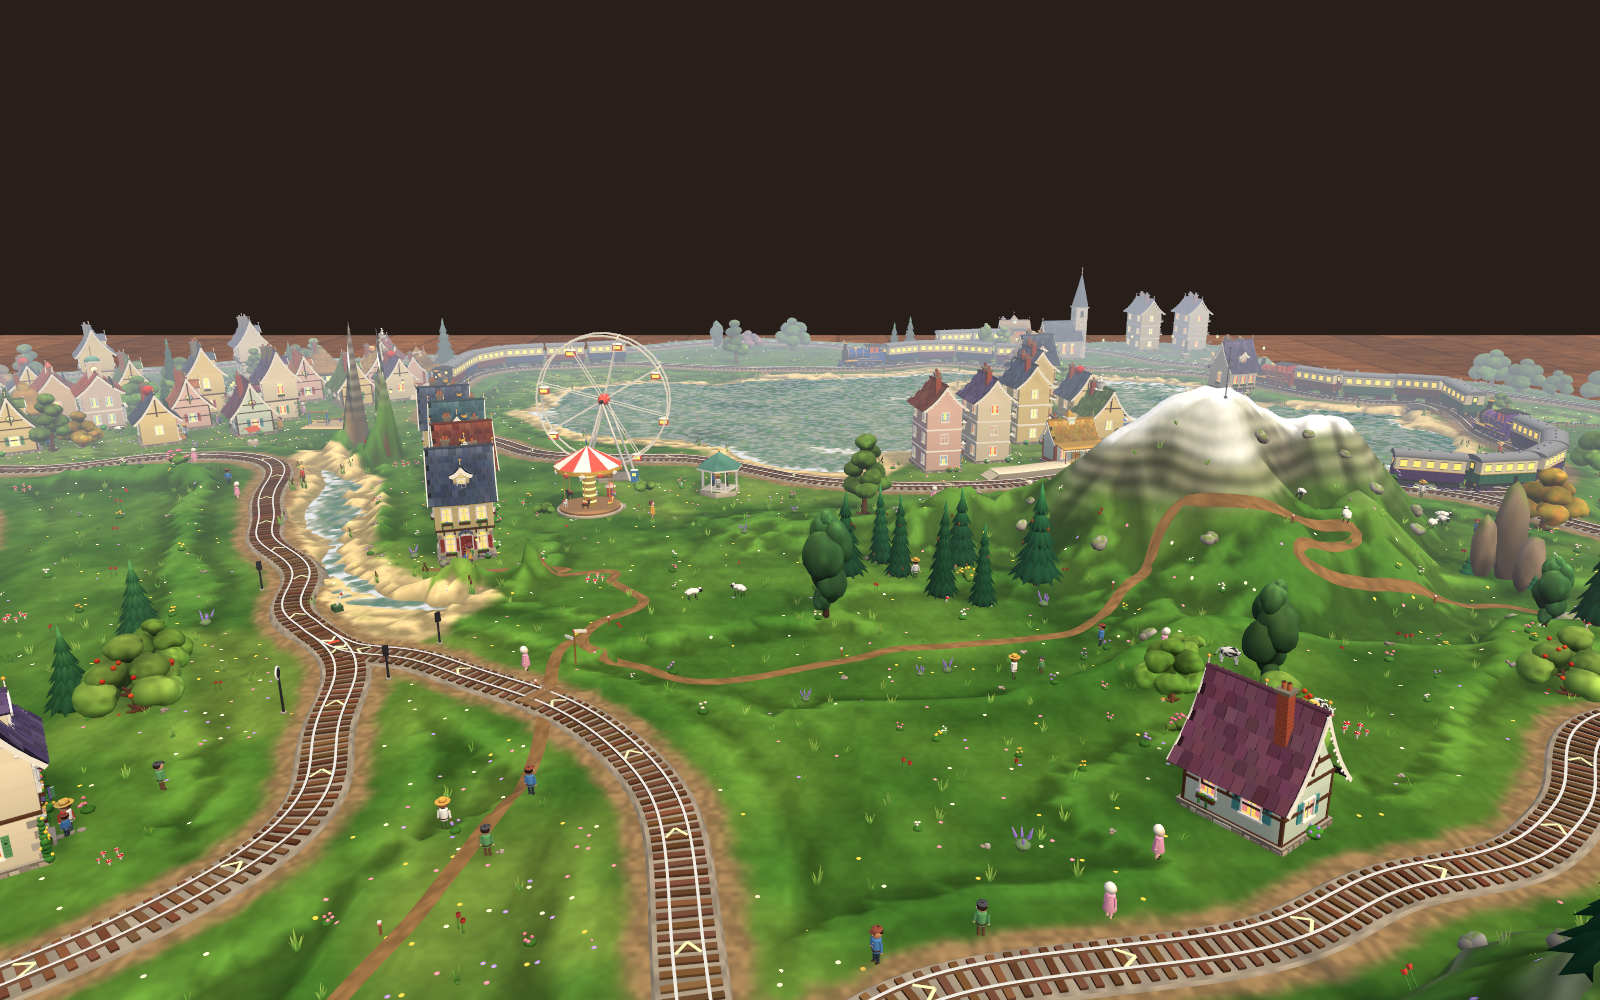
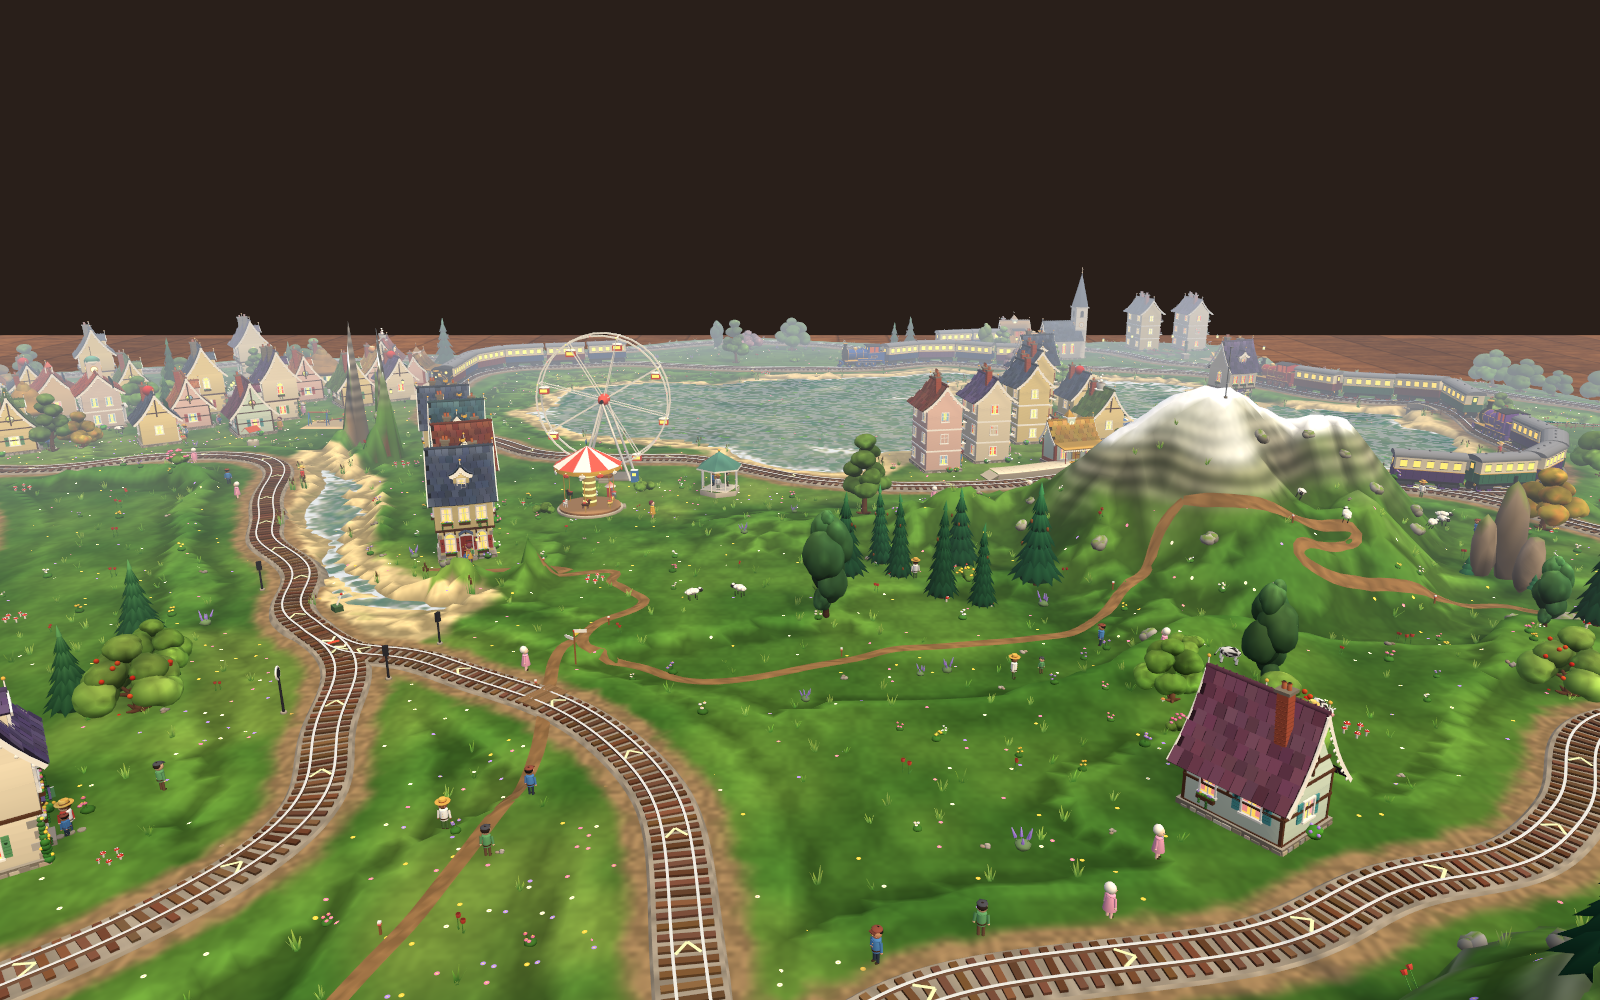
Villagers and animals drawn together: one instanced draw per body part mesh and level
- FigureBatch gathers every visible figure's parts by mesh (which names the level of detail) and draws each once
  (Graphics.RenderMeshInstanced; shadows from the bodies only); figures keep their objects for posing
- Behind the player or beyond 3 m: not drawn; while a CCTV feed is watched, everything is drawn and moves smoothly
- Figures setting: Together or One by one; renders editor-figures-{together,one-by-one}.png match

diff --git a/Assets/Wonderland/Scripts/World/PeopleSystem.cs b/Assets/Wonderland/Scripts/World/PeopleSystem.cs
@@ -59,6 +59,7 @@ namespace Wonderland
             public float Ground, Chosen = float.NaN, ChosenWant;
             public int Style, Level;   // their outfit, and the level of detail they are drawn at
             public float Pending;      // time not yet thought through (coarse scheduling)
+            public MeshRenderer[] Parts; public MeshFilter[] Filters; public int PartCount = -1;   // drawn together (FigureBatch)
             public float Heading, Timer, Phase, Height, Cooldown, Ride, WaveHeading, ResumeTimer;
             public Activity State, Resume;
             public bool ToStation, Cheering, Hidden;
@@ -422,6 +423,35 @@ namespace Wonderland
             long t0 = SimCost.Now; Step(Time.deltaTime); SimCost.Add(SimCost.People, t0);
         }
 
+        private readonly FigureBatch batch = new();
+        private bool drawnTogether;
+
+        /// <summary>All the villagers drawn together, a draw per body part mesh (see <see cref="FigureBatch"/>).</summary>
+        private void LateUpdate()
+        {
+            if (world == null || world.Terrain == null) return;
+            if (!FigureBatch.Together)
+            {
+                if (drawnTogether) foreach (var a in agents) if (a.Parts != null) FigureBatch.Restore(a.Parts);
+                drawnTogether = false;
+                return;
+            }
+            drawnTogether = true;
+            batch.Begin(material, world.Cctv != null && world.Cctv.Watching);
+            foreach (var a in agents)
+            {
+                if (a.Hidden || !a.Root.gameObject.activeSelf || !batch.Visible(a.Root.position)) continue;
+                if (a.Parts == null || a.Root.childCount != a.PartCount)
+                {
+                    a.Parts = a.Root.GetComponentsInChildren<MeshRenderer>(true);
+                    a.Filters = System.Array.ConvertAll(a.Parts, r => r.GetComponent<MeshFilter>());
+                    a.PartCount = a.Root.childCount;
+                }
+                batch.Add(a.Parts, a.Filters);
+            }
+            batch.Draw(WonderlandWorld.MiniatureLayer);
+        }
+
         /// <summary>Advances every villager (also driven by the scripted test). The village clock is ticked by the world.</summary>
         public void Step(float dt)
         {
@@ -431,6 +461,7 @@ namespace Wonderland
             decisionsThisStep = 0;
             tick++;
             bool smart = PerfSettings.SmartVillagers;
+            bool watched = world.Cctv != null && world.Cctv.Watching;   // (a CCTV feed sees far and behind: everyone moves smoothly)
             FindLocos();
             var eye = Camera.main != null ? (Vector3?)transform.InverseTransformPoint(Camera.main.transform.position) : null;
             var viewDir = Camera.main != null ? transform.InverseTransformDirection(Camera.main.transform.forward) : Vector3.forward;
@@ -451,7 +482,7 @@ namespace Wonderland
                 // Coarse (Smart): behind the player or beyond drawing distance, a villager thinks every fourth frame,
                 // catching up the time in between - nothing goes slower, it just goes in bigger steps nobody sees.
                 float dtA = dt, hoursA = hours;
-                if (smart && eye.HasValue)
+                if (smart && eye.HasValue && !watched)
                 {
                     var rel = new Vector3(a.Position.x, a.Height, a.Position.y) - eye.Value;
                     bool coarse = rel.sqrMagnitude > drawn * drawn || Vector3.Dot(rel, viewDir) < -0.05f;
@@ -534,7 +565,7 @@ namespace Wonderland
                 a.Height = Mathf.MoveTowards(a.Height, a.Ground + (a.State == Activity.Watching ? a.SpotLift : 0f), (a.SpotLift > 0f ? 0.4f : 0.12f) * dtA);
                 if (eye.HasValue && (beat & 7) == 0) Detail(a, (new Vector3(a.Position.x, a.Height, a.Position.y) - eye.Value).magnitude * transform.lossyScale.x);
                 // Beyond the distance figures are drawn at, nobody sees them move: posed only now and then.
-                if (smart && eye.HasValue && (beat & 7) != 0 && (new Vector3(a.Position.x, a.Height, a.Position.y) - eye.Value).sqrMagnitude > drawn * drawn) continue;
+                if (smart && eye.HasValue && !watched && (beat & 7) != 0 && (new Vector3(a.Position.x, a.Height, a.Position.y) - eye.Value).sqrMagnitude > drawn * drawn) continue;
                 Pose(a);
             }
             double stepMs = (System.Diagnostics.Stopwatch.GetTimestamp() - t1) * 1000.0 / System.Diagnostics.Stopwatch.Frequency;

diff --git a/Assets/Wonderland/Scripts/World/FigureBatch.cs b/Assets/Wonderland/Scripts/World/FigureBatch.cs
@@ -1,0 +1,79 @@
+using System.Collections.Generic;
+using UnityEngine;
+using UnityEngine.Rendering;
+
+namespace Wonderland
+{
+    /// <summary>
+    /// Draws figures (villagers, animals) together: every part of every figure is gathered by its mesh - which also
+    /// names its level of detail - and each mesh is drawn once for all of them (GPU instancing), instead of a draw per
+    /// arm, leg and head. The figures keep their own objects for posing; only their renderers stay switched off.
+    /// What is behind the player or beyond drawing distance is left out (unless a CCTV feed is being watched).
+    /// The Figures setting "One by one" draws them the old way, to compare.
+    /// </summary>
+    public sealed class FigureBatch
+    {
+        private readonly Dictionary<Mesh, List<Matrix4x4>> casting = new(), plain = new();
+        private Material material;
+        private Vector3 eye, forward;
+        private float reach;
+        private bool cull;
+
+        /// <summary>Whether figures are drawn together (the Figures setting).</summary>
+        public static bool Together => PerfSettings.Figures.Value == 0;
+
+        /// <summary>Starts a frame: what will be seen is worked out from the main camera.</summary>
+        public void Begin(Material source, bool watched)
+        {
+            if (material == null || material.shader != source.shader) material = new Material(source) { name = source.name + " (figures)", enableInstancing = true };
+            foreach (var l in casting.Values) l.Clear();
+            foreach (var l in plain.Values) l.Clear();
+            var cam = Camera.main;
+            cull = cam != null && !watched;
+            if (cull) { eye = cam.transform.position; forward = cam.transform.forward; reach = WonderlandWorld.MiniatureCullDistance; }
+        }
+
+        /// <summary>Whether a figure at <paramref name="position"/> (world) could be seen: in front of the player, within drawing distance.</summary>
+        public bool Visible(Vector3 position)
+        {
+            if (!cull) return true;
+            var d = position - eye;
+            float dist = d.magnitude;
+            return dist < reach && (dist < 0.3f || Vector3.Dot(d, forward) > dist * 0.2f);   // (about 78 degrees either side: more than the headset sees)
+        }
+
+        /// <summary>Adds a figure's parts (their renderers are switched off; drawn here instead).</summary>
+        public void Add(MeshRenderer[] parts, MeshFilter[] filters)
+        {
+            for (int i = 0; i < parts.Length; i++)
+            {
+                var r = parts[i];
+                if (r == null) continue;
+                if (r.enabled) r.enabled = false;
+                if (!r.gameObject.activeInHierarchy) continue;
+                var mesh = filters[i].sharedMesh;
+                if (mesh == null) continue;
+                var into = r.shadowCastingMode == ShadowCastingMode.Off ? plain : casting;
+                if (!into.TryGetValue(mesh, out var list)) into[mesh] = list = new List<Matrix4x4>(64);
+                list.Add(r.transform.localToWorldMatrix);
+            }
+        }
+
+        /// <summary>Puts the renderers back (Figures: one by one).</summary>
+        public static void Restore(MeshRenderer[] parts) { foreach (var r in parts) if (r != null && !r.enabled) r.enabled = true; }
+
+        public void Draw(int layer)
+        {
+            Draw(casting, ShadowCastingMode.On, layer);
+            Draw(plain, ShadowCastingMode.Off, layer);
+        }
+
+        private void Draw(Dictionary<Mesh, List<Matrix4x4>> lists, ShadowCastingMode shadows, int layer)
+        {
+            var rp = new RenderParams(material) { shadowCastingMode = shadows, receiveShadows = true, layer = layer, worldBounds = new Bounds(Vector3.zero, Vector3.one * 2000f) };
+            foreach (var (mesh, list) in lists)
+                for (int start = 0; start < list.Count; start += 511)
+                    Graphics.RenderMeshInstanced(rp, mesh, 0, list, Mathf.Min(511, list.Count - start), start);
+        }
+    }
+}

diff --git a/Assets/Wonderland/Scripts/World/AnimalSystem.cs b/Assets/Wonderland/Scripts/World/AnimalSystem.cs
@@ -50,6 +50,7 @@ namespace Wonderland
             public float Heading, Timer, Bob, Pitch, Speed;
             public int Index, Level;   // (Level: the level of detail it is drawn at)
             public float Pending;      // time not yet moved through (coarse scheduling)
+            public MeshRenderer[] Parts; public MeshFilter[] Filters; public int PartCount = -1;   // drawn together (FigureBatch)
             public Vector2 GroundPos = new(float.NaN, 0f);   // where Ground and Normal were last looked up (Smart scheduling)
             public float Ground;
             public Vector3 Normal = Vector3.up;
@@ -166,11 +167,42 @@ namespace Wonderland
             long t0 = SimCost.Now; Step(Time.deltaTime); SimCost.Add(SimCost.Animals, t0);
         }
 
+        private readonly FigureBatch batch = new();
+        private bool drawnTogether;
+        /// <summary>Set by the world: a CCTV feed is being watched (far animals are drawn too).</summary>
+        public System.Func<bool> Watched;
+
+        /// <summary>All the animals drawn together, a draw per body and head mesh (see <see cref="FigureBatch"/>).</summary>
+        private void LateUpdate()
+        {
+            if (terrain == null) return;
+            if (!FigureBatch.Together)
+            {
+                if (drawnTogether) foreach (var a in agents) if (a.Parts != null) FigureBatch.Restore(a.Parts);
+                drawnTogether = false;
+                return;
+            }
+            drawnTogether = true;
+            batch.Begin(material, Watched != null && Watched());
+            foreach (var a in agents)
+            {
+                if (!a.Body.gameObject.activeSelf || !batch.Visible(a.Body.position)) continue;
+                if (a.Parts == null || a.Body.childCount != a.PartCount)
+                {
+                    a.Parts = a.Body.GetComponentsInChildren<MeshRenderer>(true);
+                    a.Filters = System.Array.ConvertAll(a.Parts, r => r.GetComponent<MeshFilter>());
+                    a.PartCount = a.Body.childCount;
+                }
+                batch.Add(a.Parts, a.Filters);
+            }
+            batch.Draw(WonderlandWorld.MiniatureLayer);
+        }
+
         /// <summary>Advances every animal (also driven by the scripted test).</summary>
         public void Step(float dt)
         {
             tick++;
-            bool smart = PerfSettings.SmartVillagers;
+            bool smart = PerfSettings.SmartVillagers && !(Watched != null && Watched());   // (a CCTV feed sees far and behind)
             var eye = Camera.main != null ? (Vector3?)transform.InverseTransformPoint(Camera.main.transform.position) : null;
             var viewDir = Camera.main != null ? transform.InverseTransformDirection(Camera.main.transform.forward) : Vector3.forward;
             float drawn = WonderlandWorld.MiniatureCullDistance / Mathf.Max(transform.lossyScale.x, 1e-3f) + 0.1f;

diff --git a/Assets/Wonderland/Scripts/App/PerfSettings.cs b/Assets/Wonderland/Scripts/App/PerfSettings.cs
@@ -45,6 +45,7 @@ namespace Wonderland
         public static readonly Setting Grass = Make("Grass", "grass", 0, "the tufts, flowers and pebbles on the meadows", "Full", "Half", "Off");
         public static readonly Setting Detail = Make("Detail", "detail", 0, "five levels chosen by how big each thing looks: extra detail up close, simpler (still recognisable) far away", "By size", "Always high");
         public static readonly Setting Villagers = Make("Villagers", "villagers", 0, "villagers and animals think on a schedule instead of every frame", "Smart", "Every frame");
+        public static readonly Setting Figures = Make("Figures", "figures", 0, "villagers and animals drawn together, one draw per body part for all of them, instead of one each", "Together", "One by one");
         public static readonly Setting Haze = Make("Haze", "haze", 0, "the far side of the world takes on a soft tint of the sky, for depth (costs next to nothing)", "Soft", "Strong", "Off");
         public static readonly Setting WorldSize = Make("World size", "worldsize", 0, "everything smaller, to see more of the world at once (try it: the same things cost the same to draw at any size)", "100%", "80%", "60%");
         public static float WorldScale => WorldSize.Value switch { 0 => 1f, 1 => 0.8f, _ => 0.6f };

diff --git a/Assets/Wonderland/Editor/WonderlandJourney.Roads.cs b/Assets/Wonderland/Editor/WonderlandJourney.Roads.cs
@@ -189,6 +189,16 @@ namespace Wonderland.Editor
                 WonderlandRenders.Capture(cam, $"editor-haze-{name}.png", 1600, 1000);
             }
             Shader.SetGlobalVector("_WL_Haze", Vector4.zero);
+            // Villagers and animals drawn together (instanced) and one by one: the pictures should match.
+            for (int i = 0; i < 30; i++) { w.Clock.Tick(Dt); w.People.Step(Dt); w.Animals.Step(Dt); }
+            cam.transform.position = c + new Vector3(0.15f, 0.25f, -0.45f); cam.transform.LookAt(c + new Vector3(0.05f, 0f, 0.1f));
+            foreach (var (mode, name) in new[] { (0, "together"), (1, "one-by-one") })
+            {
+                PerfSettings.Figures.Value = mode;
+                w.People.SendMessage("LateUpdate"); w.Animals.SendMessage("LateUpdate");
+                WonderlandRenders.Capture(cam, $"editor-figures-{name}.png", 1600, 1000);
+            }
+            PerfSettings.ResetAll();
             TerrainNoise.SetMode(0);
             Object.DestroyImmediate(w.gameObject);
             if (Application.isBatchMode) EditorApplication.Exit(0);

diff --git a/Assets/Wonderland/Scripts/World/WonderlandWorld.cs b/Assets/Wonderland/Scripts/World/WonderlandWorld.cs
@@ -87,6 +87,7 @@ namespace Wonderland
             WaterView.Init(Terrain, materials.Water);
             Animals = Child<AnimalSystem>("Animals");
             Animals.Init(Terrain, materials.Lit, Habitat, (a, b) => Paths.CrossesBarrier(a, b), Threat);
+            Animals.Watched = () => Cctv != null && Cctv.Watching;
             Animals.Resting = () => Clock.Hour >= 22.5f || Clock.Hour < 5.5f;
             People = Child<PeopleSystem>("Villagers");
             People.Init(this, materials.Lit);

diff --git a/README.md b/README.md
@@ -335,7 +335,9 @@ the ponds, without damming them; a stream from a higher pond falls into the lowe
     animal by how big it looks: Extreme right up close (rounder shapes, a door knob and letterbox, villagers' smiles and
     eyebrows), High (the model as designed), then Medium, Low and Minimal (still recognisable: shape, colours, windows,
     roof), one level per doubling of distance. A big building keeps its detail further away than a small villager.
-  - **Villagers:** Smart (the default: occasional checks spread over the frames) or Every frame.
+  - **Villagers:** Smart (the default: occasional checks spread over the frames, and those behind you or beyond 3 m
+    think every fourth frame) or Every frame.
+  - **Figures:** Together (the default: all villagers and animals drawn with one draw per body part) or One by one.
   - **Haze:** Soft (the default), Strong or Off: the far side of the world takes on a soft tint of the sky, for depth.
   - **World size:** 100%, 80% or 60%: everything smaller, to see more of it at once.
   - **Resolution** and **Foveation.**

diff --git a/docs/REPORT.md b/docs/REPORT.md
@@ -727,6 +727,17 @@ The CPU main thread was 12.6 ms on World 1, of which the simulation was 5–7 ms
    - The grid shows around the pointer while placing.
    - Render: `editor-grid.png`.
 
+**Second round** (after the first headset session):
+- Five levels of detail chosen by how big things look on screen (Extreme up close, then High, Medium, Low,
+  Minimal).
+- Distance haze.
+- A World size setting.
+- Coarse simulation for villagers and animals behind the player or beyond 3 m. Editor timing on World 1, with a player
+  at the edge of the land: 7.1 ms every frame, 2.0 ms Smart.
+- Villagers and animals drawn together (GPU instancing, one draw per part mesh).
+
+Known: the "Clouds drift on the breeze" check failed once and passed on rerun; it looks flaky, and is unrelated.
+
 **Not yet re-measured on the headset with all of this in place.** Run Measure in Stats > Performance, or the
 benchmark ("bench" file), to see the new numbers.
 
